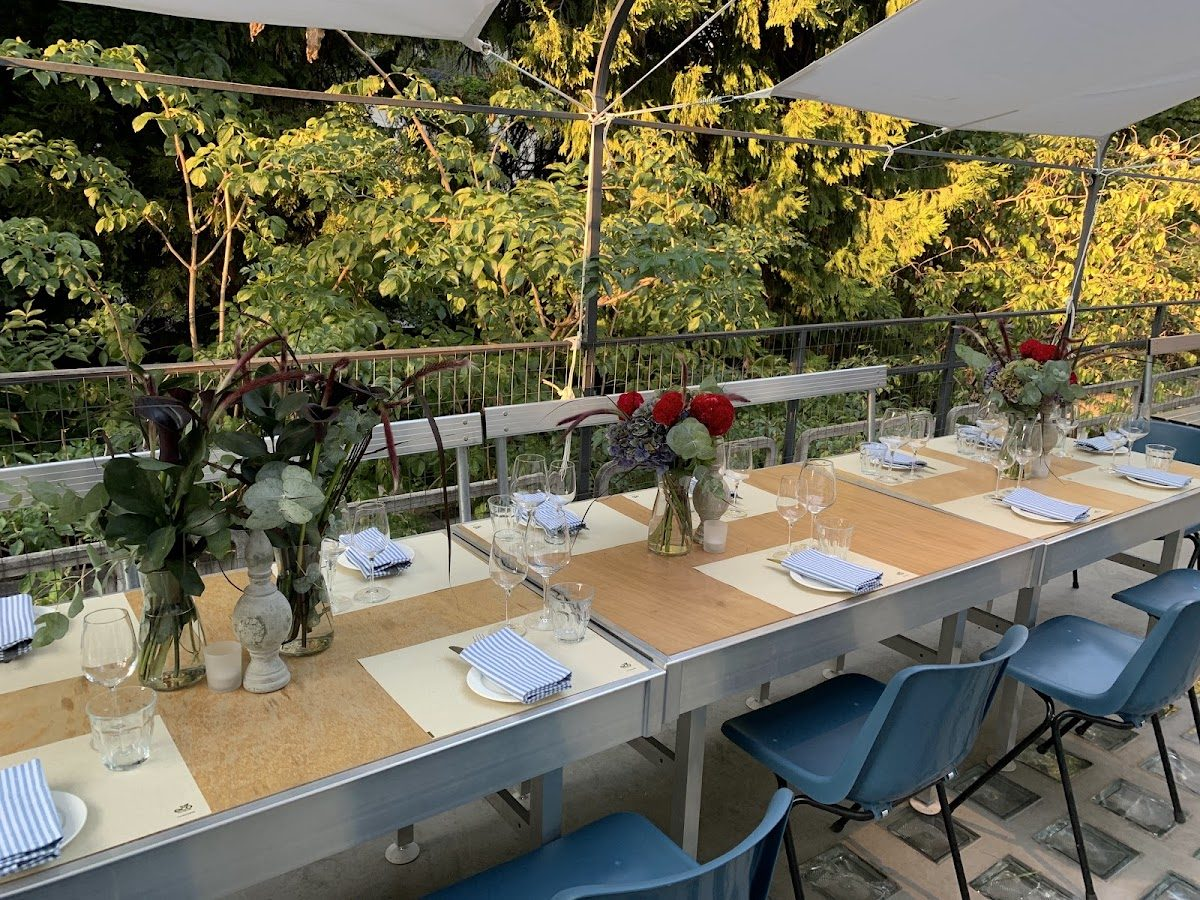
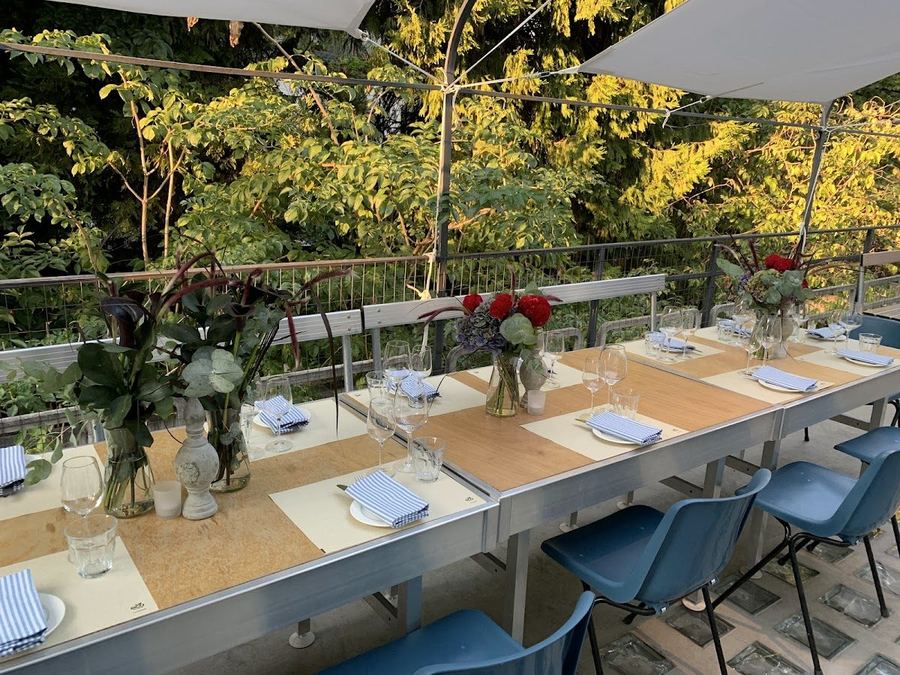
New hero image, performance and UX improvements
- Replace hero background with a real wedding bouquet photo (cropped for privacy)
- Recompress and resize all images for faster mobile loading (-43% total weight)
- Lazy-load below-the-fold images, preload/prioritize the hero image
- Prevent selecting a past date in the booking form

diff --git a/index.html b/index.html
@@ -9,6 +9,7 @@
 <link rel="preconnect" href="https://fonts.googleapis.com">
 <link rel="preconnect" href="https://fonts.gstatic.com" crossorigin>
 <link href="https://fonts.googleapis.com/css2?family=Fraunces:ital,opsz,wght@0,9..144,400;0,9..144,500;0,9..144,600;1,9..144,500&family=Jost:wght@300;400;500;600&family=UnifrakturMaguntia&display=swap" rel="stylesheet">
+<link rel="preload" as="image" href="assets/img/hero-evento.jpg" fetchpriority="high">
 <style>
   :root{
     --bg:#fbf8f3;
@@ -393,7 +394,7 @@
   <!-- HERO -->
   <section class="hero" style="padding:0;">
     <div class="hero-media">
-      <img src="assets/img/shop-front.jpg" alt="Vetrina del negozio Le Luire Fiori a Milano">
+      <img fetchpriority="high" decoding="async" src="assets/img/hero-evento.jpg" alt="Composizione floreale de Le Luire Fiori per un matrimonio all'aperto">
     </div>
     <div class="wrap hero-inner">
       <span class="eyebrow" data-i18n="hero.eyebrow">FIORAIO A MILANO</span>
@@ -410,7 +411,7 @@
   <section class="about" id="chi-siamo">
     <div class="wrap about-grid">
       <div class="about-media reveal">
-        <img src="assets/img/owner.jpg" alt="Marco Marcheselli, il titolare de Le Luire Fiori, sorridente nel suo negozio">
+        <img loading="lazy" decoding="async" src="assets/img/owner.jpg" alt="Marco Marcheselli, il titolare de Le Luire Fiori, sorridente nel suo negozio">
         <div class="badge">
           <div class="num">4,6★</div>
           <div class="lbl" data-i18n="about.badge">su Google (53 recensioni)</div>
@@ -439,7 +440,7 @@
       </div>
       <div class="service-grid">
         <div class="service-card reveal">
-          <div class="service-media"><img src="assets/img/servizio-laurea.jpg" alt="Bouquet di rose rosse per corona d'alloro laurea"></div>
+          <div class="service-media"><img loading="lazy" decoding="async" src="assets/img/servizio-laurea.jpg" alt="Bouquet di rose rosse per corona d'alloro laurea"></div>
           <div class="service-body">
             <h3 data-i18n="services.s1.title">Corona d'alloro per laurea</h3>
             <p data-i18n="services.s1.desc">La tradizionale corona d'alloro e il bouquet di rose per il giorno più importante, realizzati su misura.</p>
@@ -447,7 +448,7 @@
           </div>
         </div>
         <div class="service-card reveal">
-          <div class="service-media"><img src="assets/img/servizio-bouquet.jpg" alt="Bouquet di fiori misti pronto per la consegna"></div>
+          <div class="service-media"><img loading="lazy" decoding="async" src="assets/img/servizio-bouquet.jpg" alt="Bouquet di fiori misti pronto per la consegna"></div>
           <div class="service-body">
             <h3 data-i18n="services.s2.title">Bouquet di fiori</h3>
             <p data-i18n="services.s2.desc">Bouquet freschi per ogni occasione: un pensiero, un compleanno, un semplice "ti penso". Scegliamo insieme i fiori più adatti.</p>
@@ -455,7 +456,7 @@
           </div>
         </div>
         <div class="service-card reveal">
-          <div class="service-media"><img src="assets/img/servizio-eventi.jpg" alt="Composizione floreale per matrimonio all'aperto"></div>
+          <div class="service-media"><img loading="lazy" decoding="async" src="assets/img/servizio-eventi.jpg" alt="Composizione floreale per matrimonio all'aperto"></div>
           <div class="service-body">
             <h3 data-i18n="services.s3.title">Consulenza per eventi</h3>
             <p data-i18n="services.s3.desc">Un incontro con Marco per progettare insieme l'allestimento floreale del vostro evento, dal concept ai colori.</p>
@@ -463,7 +464,7 @@
           </div>
         </div>
         <div class="service-card reveal">
-          <div class="service-media"><img src="assets/img/servizio-fornitura.jpg" alt="Tavolo apparecchiato con centrotavola floreali per un evento"></div>
+          <div class="service-media"><img loading="lazy" decoding="async" src="assets/img/servizio-fornitura.jpg" alt="Tavolo apparecchiato con centrotavola floreali per un evento"></div>
           <div class="service-body">
             <h3 data-i18n="services.s4.title">Fornitura fiori per eventi</h3>
             <p data-i18n="services.s4.desc">Fiori e composizioni per matrimoni, feste e cerimonie: dagli allestimenti del tavolo agli addobbi.</p>
@@ -484,32 +485,32 @@
       </div>
       <div class="flower-grid">
         <div class="flower-card reveal">
-          <div class="flower-media"><img src="assets/img/flower-rosa.jpg" alt="Bouquet di rose rosse"></div>
+          <div class="flower-media"><img loading="lazy" decoding="async" src="assets/img/flower-rosa.jpg" alt="Bouquet di rose rosse"></div>
           <h3 data-i18n="flowers.f1.name">Rosa</h3>
           <p data-i18n="flowers.f1.desc">Simbolo di eleganza senza tempo. La usiamo nei bouquet più classici e nelle composizioni per matrimoni: intensa, profumata, sempre la più richiesta.</p>
         </div>
         <div class="flower-card reveal">
-          <div class="flower-media"><img src="assets/img/flower-girasole.jpg" alt="Girasoli con eucalipto"></div>
+          <div class="flower-media"><img loading="lazy" decoding="async" src="assets/img/flower-girasole.jpg" alt="Girasoli con eucalipto"></div>
           <h3 data-i18n="flowers.f2.name">Girasole</h3>
           <p data-i18n="flowers.f2.desc">Allegro e solare, porta luce in ogni stanza. Perfetto per chi ama i colori decisi e i pensieri che mettono subito il buonumore.</p>
         </div>
         <div class="flower-card reveal">
-          <div class="flower-media"><img src="assets/img/flower-ranuncolo.jpg" alt="Bouquet di ranuncoli rossi e arancioni"></div>
+          <div class="flower-media"><img loading="lazy" decoding="async" src="assets/img/flower-ranuncolo.jpg" alt="Bouquet di ranuncoli rossi e arancioni"></div>
           <h3 data-i18n="flowers.f3.name">Ranuncolo</h3>
           <p data-i18n="flowers.f3.desc">Petali delicati e vellutati, disposti a strati come piccole rose. Un fiore di stagione che amiamo per la sua eleganza naturale.</p>
         </div>
         <div class="flower-card reveal">
-          <div class="flower-media"><img src="assets/img/flower-ortensia.jpg" alt="Ortensie bianche in vaso"></div>
+          <div class="flower-media"><img loading="lazy" decoding="async" src="assets/img/flower-ortensia.jpg" alt="Ortensie bianche in vaso"></div>
           <h3 data-i18n="flowers.f4.name">Ortensia</h3>
           <p data-i18n="flowers.f4.desc">Grandi corolle piene e morbide: da sole o abbinate ad altri fiori, danno volume e freschezza a qualsiasi composizione.</p>
         </div>
         <div class="flower-card reveal">
-          <div class="flower-media"><img src="assets/img/flower-garofano.jpg" alt="Garofano verde in un bouquet"></div>
+          <div class="flower-media"><img loading="lazy" decoding="async" src="assets/img/flower-garofano.jpg" alt="Garofano verde in un bouquet"></div>
           <h3 data-i18n="flowers.f5.name">Garofano verde</h3>
           <p data-i18n="flowers.f5.desc">Un fiore originale e sorprendente, perfetto per chi cerca qualcosa fuori dagli schemi: dona un tocco fresco e moderno.</p>
         </div>
         <div class="flower-card reveal">
-          <div class="flower-media"><img src="assets/img/flower-gerbera.jpg" alt="Gerbere arancioni e rosa"></div>
+          <div class="flower-media"><img loading="lazy" decoding="async" src="assets/img/flower-gerbera.jpg" alt="Gerbere arancioni e rosa"></div>
           <h3 data-i18n="flowers.f6.name">Gerbera</h3>
           <p data-i18n="flowers.f6.desc">Colori vivaci e forma grafica: la gerbera è il fiore giusto per aggiungere allegria e movimento a ogni composizione.</p>
         </div>
@@ -525,9 +526,9 @@
         <h2 data-i18n="gallery.h2">Un assaggio delle nostre composizioni</h2>
       </div>
       <div class="gallery-grid">
-        <img class="reveal" src="assets/img/interno-bouquet.jpg" alt="Bouquet con garofano verde, rose e lavanda">
-        <img class="reveal" src="assets/img/bouquet-2.jpg" alt="Bouquet di rose rosse e alstroemeria">
-        <img class="reveal" src="assets/img/bouquet-3.jpg" alt="Bouquet di rose rosse e arancioni">
+        <img class="reveal" loading="lazy" decoding="async" src="assets/img/interno-bouquet.jpg" alt="Bouquet con garofano verde, rose e lavanda">
+        <img class="reveal" loading="lazy" decoding="async" src="assets/img/bouquet-2.jpg" alt="Bouquet di rose rosse e alstroemeria">
+        <img class="reveal" loading="lazy" decoding="async" src="assets/img/bouquet-3.jpg" alt="Bouquet di rose rosse e arancioni">
       </div>
     </div>
   </section>
@@ -556,7 +557,7 @@
           </div>
           <div class="field">
             <label for="f-date" data-i18n="booking.date">Data desiderata</label>
-            <input id="f-date" name="date" type="date">
+            <input id="f-date" name="date" type="date" min="">
           </div>
           <div class="field full">
             <label for="f-service" data-i18n="booking.service">Servizio</label>
@@ -766,6 +767,9 @@ document.getElementById('lang-en').addEventListener('click', ()=>applyLang('en')
 let savedLang = 'it';
 try{ savedLang = localStorage.getItem('lf-lang') || 'it'; }catch(e){}
 applyLang(savedLang);
+
+// Prevent picking a past date in the booking form
+document.getElementById('f-date').min = new Date().toISOString().split('T')[0];
 
 // Mobile nav
 const hamburger = document.getElementById('hamburger');
